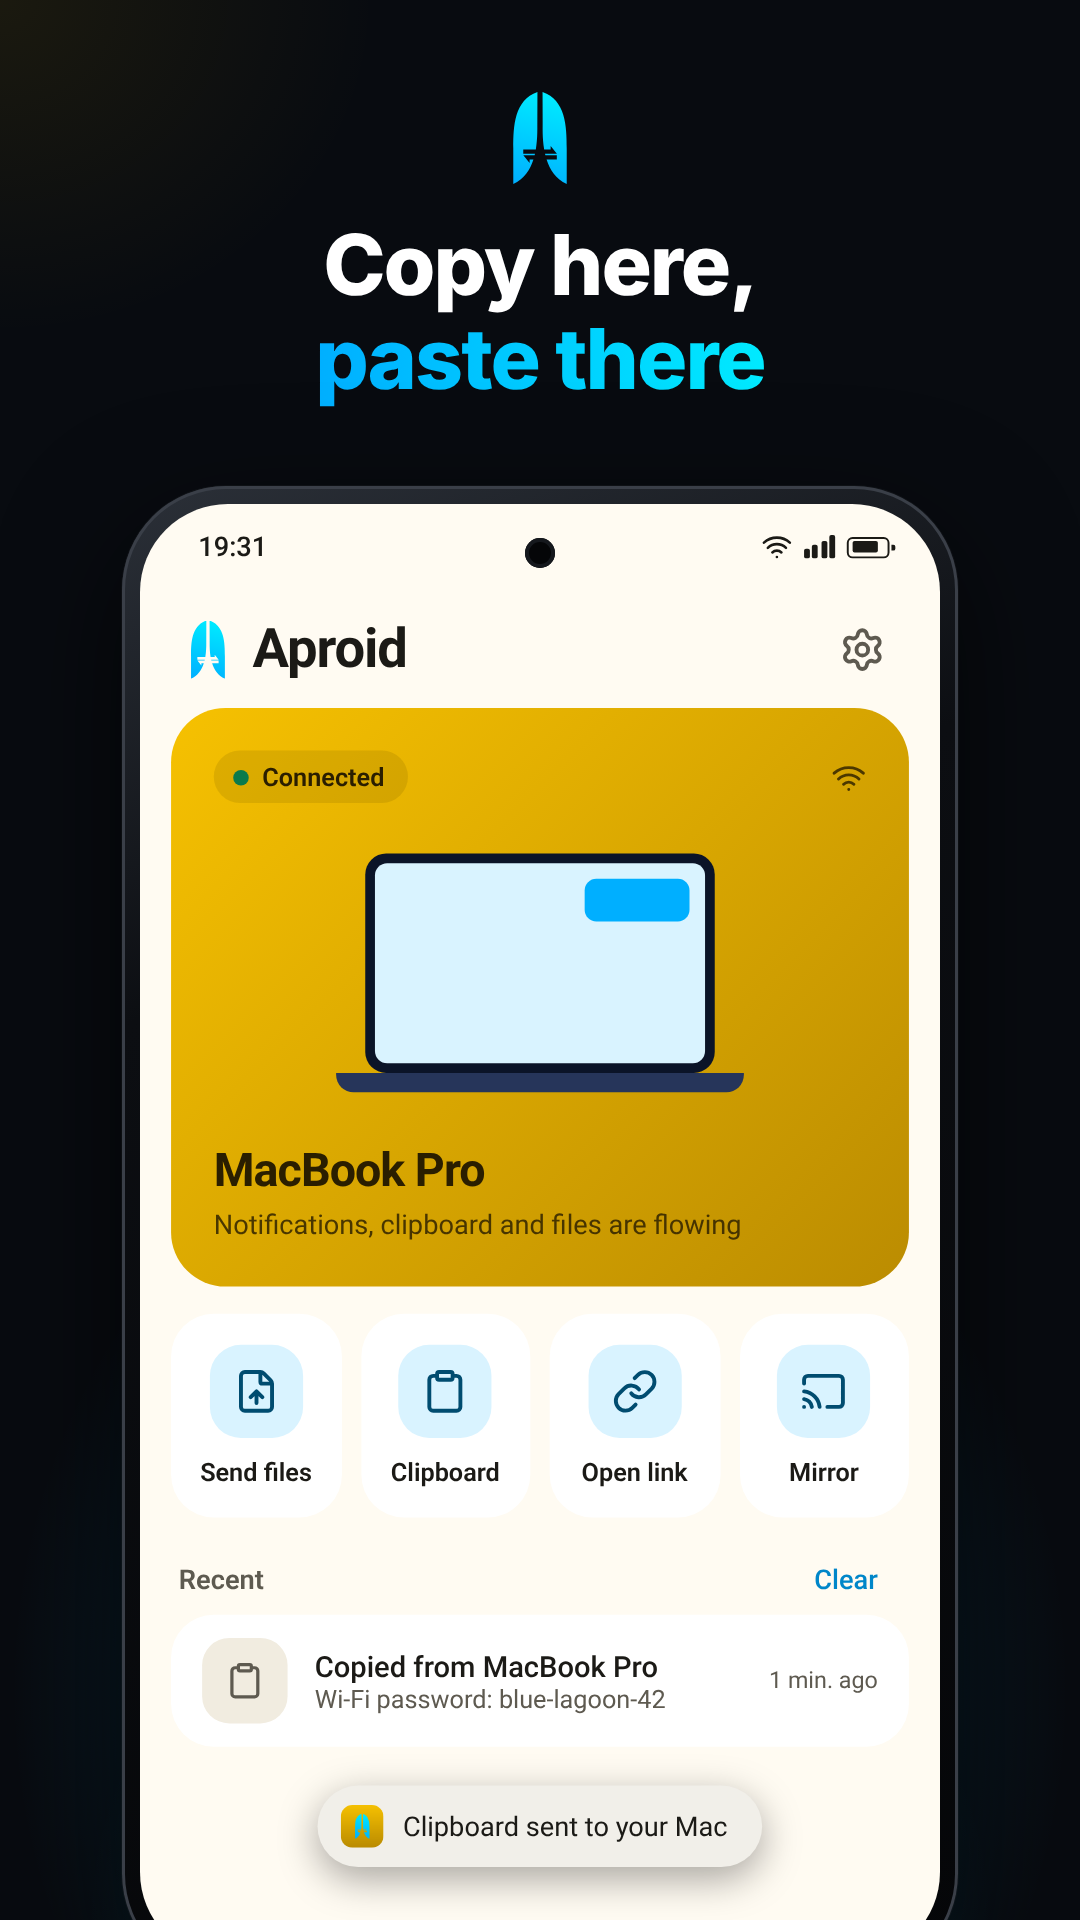
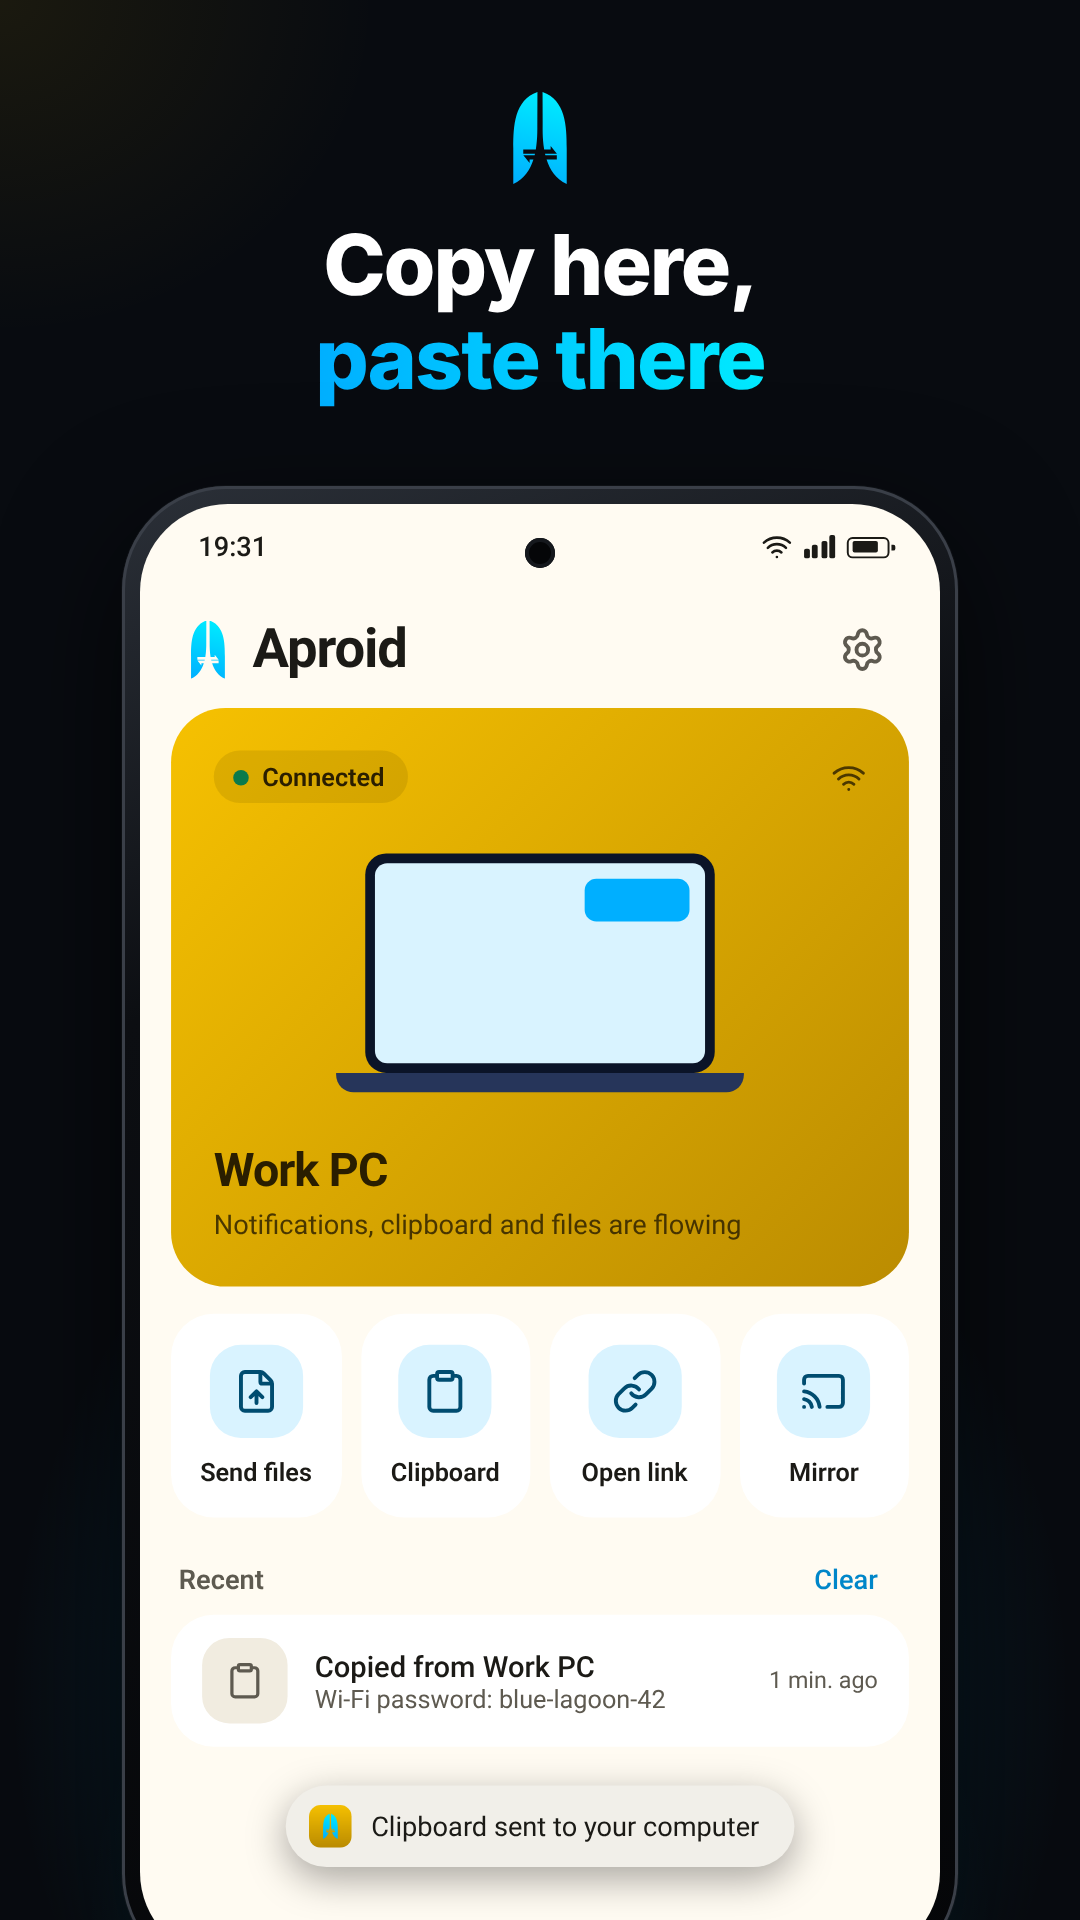
feat: copy that covers Windows and computer pairs, not just Macs (#62)

diff --git a/web/app/privacy/page.tsx b/web/app/privacy/page.tsx
@@ -16,7 +16,7 @@ const permissions = [
   ["Photos and videos", "Lets you browse recent photos and screenshots from your computer and copy the ones you pick."],
   ["Screen capture", "Streams your phone's screen to your paired computer when you start screen mirroring. Android asks for your consent every time."],
   ["Audio recording", "Captures the sound your phone is playing (not the microphone) while you mirror the screen, so you can hear it on your computer."],
-  ["Accessibility service (\"Aproid Mac control\")", "Lets the mouse and keyboard on your paired computer tap, swipe, type and press Back, Home and Recents on your phone, only while you mirror the screen. To type, it reads the text field you have selected on the phone and nothing else on your screen. Aproid does not collect, store or share any personal data through it: your clicks and typing travel only between your own paired devices. It is off until you agree to Aproid's explanation and turn it on in Android's settings, and it is used for nothing else."],
+  ["Accessibility service (\"Aproid computer control\")", "Lets the mouse and keyboard on your paired computer tap, swipe, type and press Back, Home and Recents on your phone, only while you mirror the screen. To type, it reads the text field you have selected on the phone and nothing else on your screen. Aproid does not collect, store or share any personal data through it: your clicks and typing travel only between your own paired devices. It is off until you agree to Aproid's explanation and turn it on in Android's settings, and it is used for nothing else."],
   ["Bluetooth", "Finds your paired computer nearby and helps it connect when Wi-Fi is not available."],
   ["Wi-Fi, network and local hotspot", "Finds and connects to your paired devices on your local network, or through a temporary hotspot from your phone."],
   ["Files and clipboard", "Sends files, links and clipboard contents you choose to share to your paired devices, and saves the ones they send you."],

diff --git a/store/android/page/shots.js b/store/android/page/shots.js
@@ -92,7 +92,7 @@ const SHOTS = [
         size: '48.6 MB',
         targets: [
           { name: 'MacBook Pro', progress: 64, detail: '8 of 12 · 41 MB/s · about 1 second left' },
-          { name: 'iMac' },
+          { name: 'Work PC' },
         ],
       }),
     ),
@@ -120,13 +120,13 @@ const SHOTS = [
     lines: ['Copy here,', 'paste there'],
     screen: (app) => app.screen(
       app.home([
-        app.hero('MacBook Pro', FLOWING),
+        app.hero('Work PC', FLOWING),
         app.tiles(),
         app.recent([
-          { icon: 'clipboard', title: 'Copied from MacBook Pro', detail: 'Wi-Fi password: blue-lagoon-42', when: '1 min. ago' },
+          { icon: 'clipboard', title: 'Copied from Work PC', detail: 'Wi-Fi password: blue-lagoon-42', when: '1 min. ago' },
         ]),
       ]),
-      app.toast('Clipboard sent to your Mac'),
+      app.toast('Clipboard sent to your computer'),
     ),
   }),
   new StoreShot({
@@ -134,10 +134,10 @@ const SHOTS = [
     lines: ['One phone,', 'all your computers'],
     dark: true,
     screen: (app) => app.screen(app.home([
-      app.carousel(['MacBook Pro', 'iMac']),
+      app.carousel(['MacBook Pro', 'Work PC']),
       app.tiles(),
       app.recent([
-        { icon: 'file-text', title: 'Q3-report.xlsx', detail: 'From iMac · Saved to Downloads', when: '3 min. ago' },
+        { icon: 'file-text', title: 'Q3-report.xlsx', detail: 'From Work PC · Saved to Downloads', when: '3 min. ago' },
         { icon: 'image', title: 'Screenshot 2026-11-10.png', detail: 'From MacBook Pro · Saved to Downloads', when: '8 min. ago' },
       ]),
     ])),
@@ -146,8 +146,8 @@ const SHOTS = [
     id: '06-pair',
     lines: ['Pair once,', 'stay connected'],
     screen: (app) => app.screen(
-      app.home([app.hero('MacBook Pro', FLOWING), app.tiles()]),
-      app.pairSheet('MacBook Pro', '4F7A2C91'),
+      app.home([app.hero('Work PC', FLOWING), app.tiles()]),
+      app.pairSheet('Work PC', '4F7A2C91'),
     ),
   }),
 ];

diff --git a/store/android/page/app.js b/store/android/page/app.js
@@ -48,7 +48,7 @@ class AndroidApp {
   }
 
   carousel(names) {
-    const text = 'Notifications and clipboard go to all your Macs';
+    const text = 'Notifications and clipboard go to all your computers';
 
     return `<div class="carousel">${this.hero(names[0], text)}${this.hero(names[1], text, 'peek')}</div>`;
   }
@@ -110,7 +110,7 @@ class AndroidApp {
 
     return this.sheet(`<div class="pair">
       ${this.laptop(150)}
-      <div><div class="title">Pair with ${name}?</div><div class="hint">Make sure your Mac shows the same code.</div></div>
+      <div><div class="title">Pair with ${name}?</div><div class="hint">Make sure your computer shows the same code.</div></div>
       <div class="digits">${digits}</div>
       <div class="buttons"><div class="filled">Pair</div><div class="outlined">Not now</div></div>
       <div class="private">${this.icon('lock')}Encrypted, and never leaves your network</div>

diff --git a/web/app/page.tsx b/web/app/page.tsx
@@ -98,7 +98,7 @@ export default function Home() {
           points={[
             "Pair as many phones and computers as you want",
             "Calls and texts always come from the right phone",
-            "Pair your Mac and PC to share files and the clipboard",
+            "Pair your computers with each other to share files and the clipboard",
           ]}
           media={<img className="tall" src="/screens/mac-panel.png" alt="The Aproid panel on a Mac with two phones paired" />}
         />

diff --git a/web/content/features.ts b/web/content/features.ts
@@ -74,7 +74,7 @@ export const features: Feature[] = [
   {
     icon: Laptop,
     title: "Computer to computer",
-    body: "Pair your Mac with your PC to pass files and links back and forth, share a clipboard and control the music on the other one.",
+    body: "Pair your computers with each other, Mac or PC, to pass files and links back and forth, share a clipboard and control the music on the other one.",
   },
   {
     icon: Wifi,
